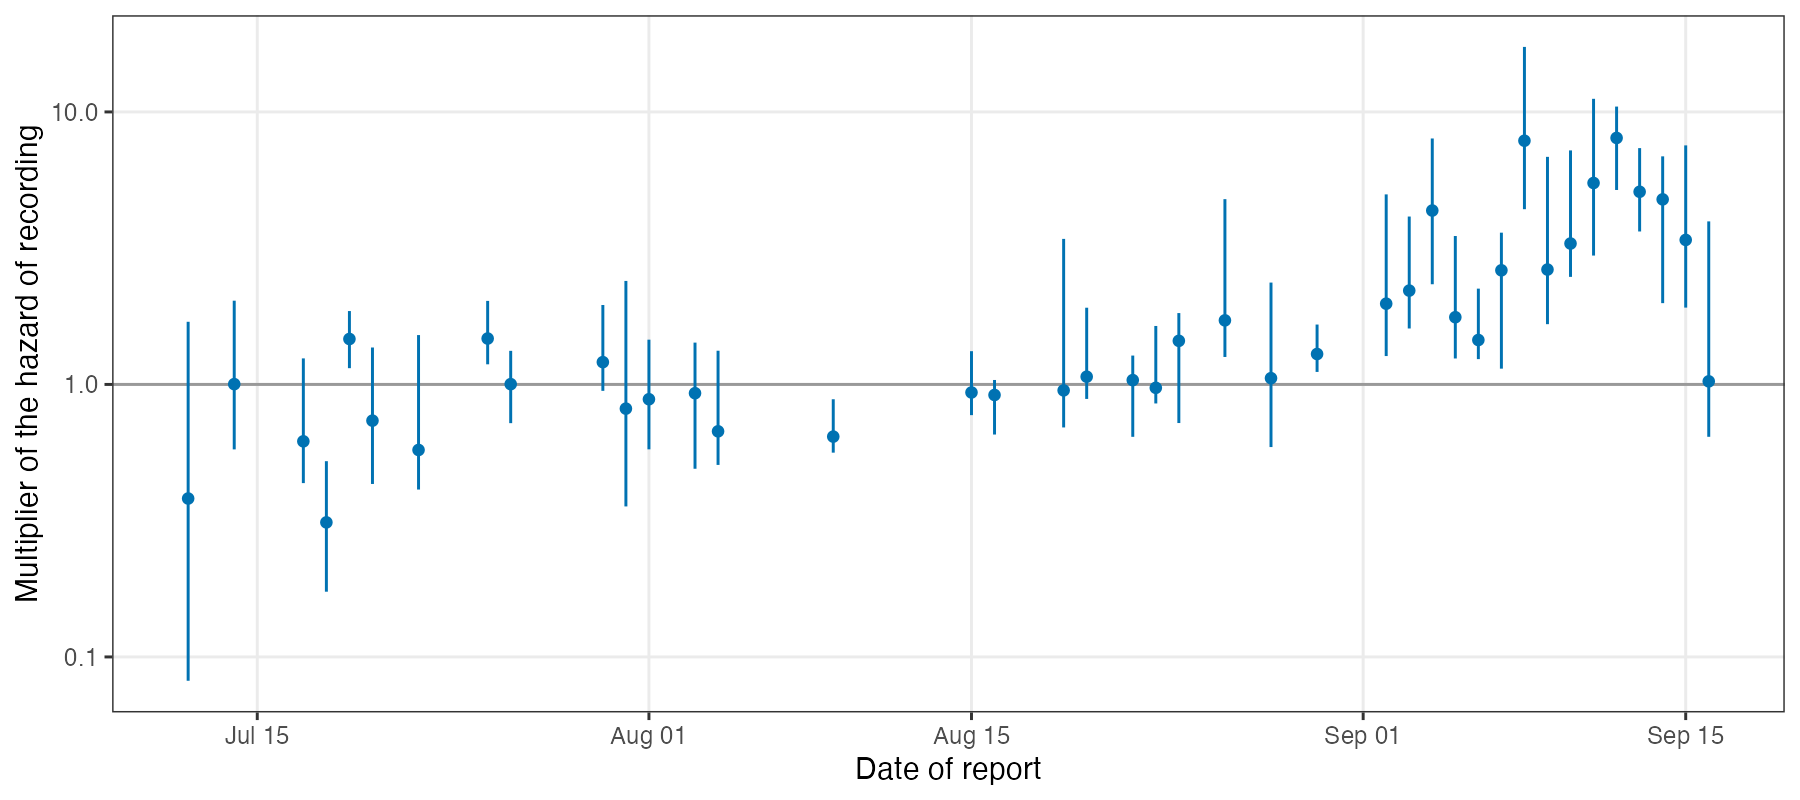
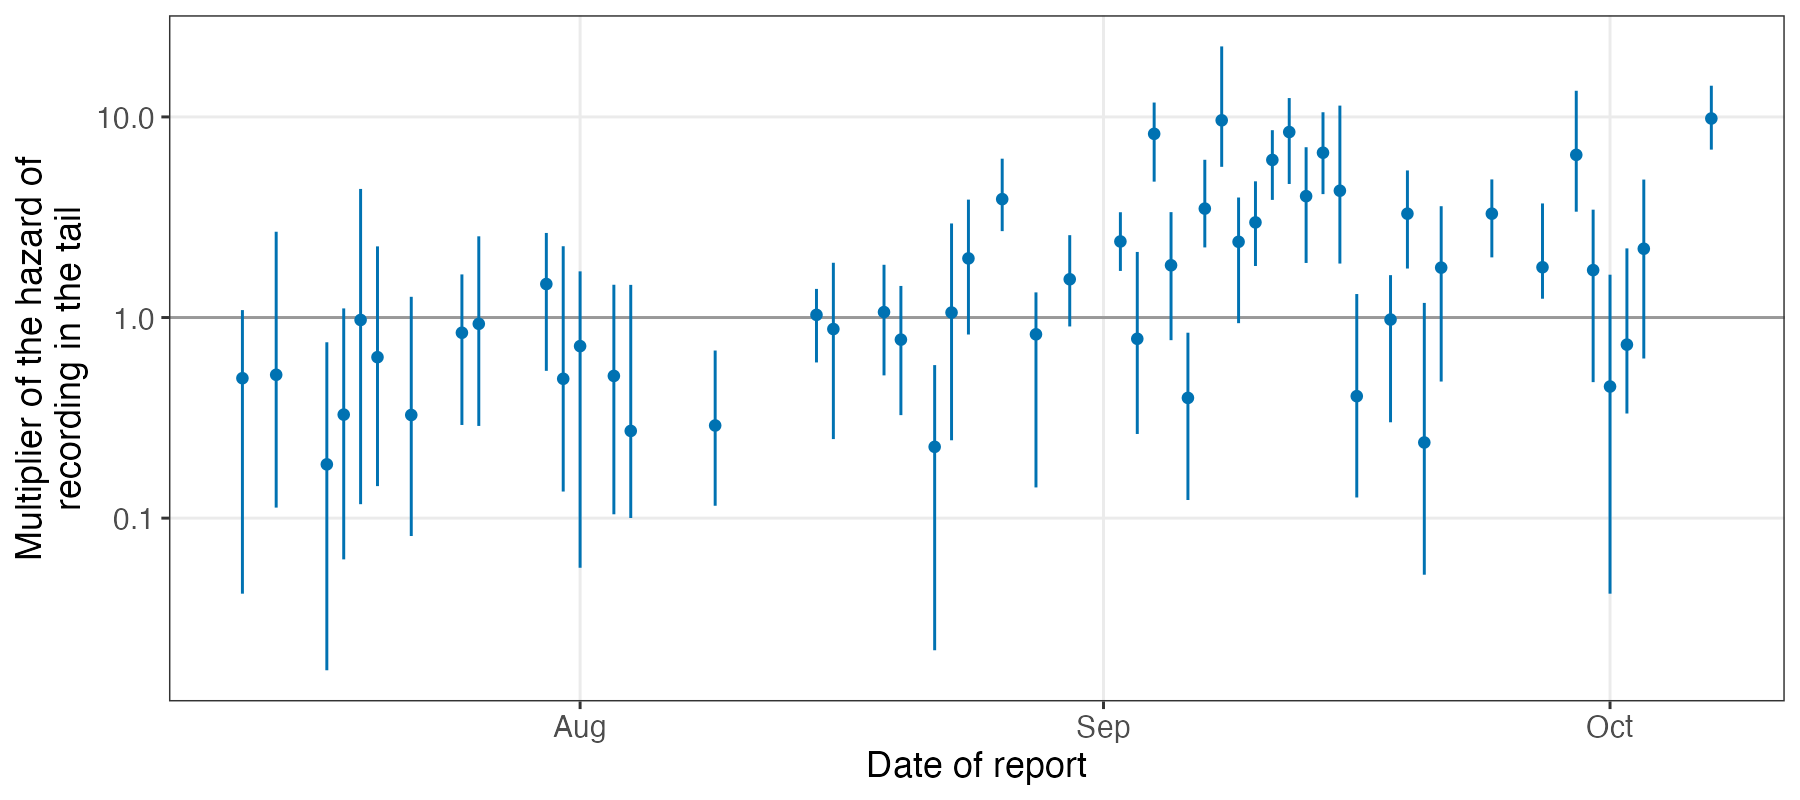
Death slides: results from the chosen model (f): fits to past sitreps, projections against actual deaths, parameter estimates at 7 October, effects of each report on the tail; G/H clash; U explained

diff --git a/docs/bvd_death_slides.tex b/docs/bvd_death_slides.tex
@@ -34,11 +34,13 @@
 \newcommand{\resultsinput}[1]{%
   \IfFileExists{../outputs/tables/#1}{\input{../outputs/tables/#1}}{\input{outputs/tables/#1}}}
 
-% The numbers on the slides are typed in by hand. The effects of each report
-% at 16 September come from runs/2026-10-14_20_12_recording_delay_0916
-% (batch 12, report effects on the whole recording delay) on the branch
-% experiment-results, second half of each chain, via scripts/plot_death_slides.R.
-% The data table and the counts of falls come from the reports to 7 October.
+% The numbers on the slides are typed in by hand. The fits, the projections,
+% the parameter estimates and the effects of each report are those of the
+% chosen model, option (f) (recording delay fixed to 31 July, effects of each
+% report on its tail alone), from runs/2026-10-15_23_13b_collect_report_effects
+% on the branch experiment-results, second half of each chain, via
+% scripts/plot_death_slides_f.R. The data table and the counts of falls come
+% from the reports to 7 October.
 
 \begin{document}
 \resultsinput{bvd_numbers.tex}
@@ -145,11 +147,10 @@ is about 79\% of its latest value, and the death count about 60\%.
 % % ---------------------------------------------------------------------------
 \begin{frame}{Fits to past sitreps: deaths}
 \centering
-\placeholderfig{bvd_deaths_fits_deaths.png}{0.78\textheight}
+\includegraphics[height=0.78\textheight]{bvd_deaths_fits_deaths.png}
 
 \smallskip
-{\small Panels: the date of each fit. Shading: 90\% interval of the projection.
-To be replaced by the fits of the final model.}
+{\small Panels: the date of each fit. Shading: 90\% interval of the projection.}
 \end{frame}
 
 ---------------------------------------------------------------------------
@@ -462,9 +463,9 @@ F^{\mathrm{mis}}(t)\sim\bin\bigl(F(t),\ f\bigr),
 \]
 are misdated: recorded on their day of death, $Z$ days later, with
 \[
-P(Z=z)=h_z\propto G(z)-G(z-1),\qquad z=1,2,\dots,
+P(Z=z)=h_z\propto H(z)-H(z-1),\qquad z=1,2,\dots,
 \]
-$G$ the distribution function of a gamma with mean 9.3 and sd 5.5 days (the
+$H$ the distribution function of a gamma with mean 9.3 and sd 5.5 days (the
 time from onset to death, from the review). $F^{\mathrm{mis}}(t,z)$: those
 who die $z$ days after onset (multinomial given $F^{\mathrm{mis}}(t)$).
 
@@ -530,7 +531,8 @@ $f$ of 0.40, 0.33, 0.26 and 0.17 for sds of 4.5, 5.5, 6.5 and 8 days.
 % ---------------------------------------------------------------------------
 \begin{frame}{Deaths recorded long after}
 With the time to death near nine days, a death first shown months after
-onset must be explained by $U$. A gamma with a mean of a few days makes such
+onset must be explained by a long delay $U$ from death to the death being
+recorded. A gamma with a mean of a few days makes such
 deaths all but impossible.
 
 \bigskip
@@ -570,8 +572,9 @@ Recording delay $(\mu^{d},\sigma^{d})$ & 14 days \\
 \bigskip
 \begin{itemize}
 \item $\cfr_t$ is indexed by onset day: a change is between cohorts of cases.
-\item Onset days first seen long after onset (to 18 July) cannot show how
-fast deaths were recorded, so they share one recording delay.
+\item The recording delay is the same for all onset days to 31 July: early
+onset days, many first seen long after onset, say little about how fast
+deaths were recorded.
 \end{itemize}
 \end{frame}
 
@@ -702,10 +705,11 @@ records.)
 
 % ---------------------------------------------------------------------------
 \begin{frame}{Effects of each report on recording}
-The hazard of a death being recorded on each day after report $t_{j-1}$, up
-to and including report $t_j$, is multiplied by
+On each day after report $t_{j-1}$, up to and including report $t_j$, the
+hazard of a death being recorded is multiplied by
 \[
-\psi^{d}_{w(j)}\,e^{\varepsilon_j},\qquad
+\underbrace{\psi^{d}_{w(j)}\,e^{\varepsilon_j}}_{\text{deaths in the tail}},\qquad
+\underbrace{\psi^{d}_{w(j)}}_{\text{other deaths}},\qquad
 \varepsilon_j\sim N(0,s^2),
 \]
 with $w(j)$ the day of the week of report $t_j$.
@@ -713,6 +717,8 @@ with $w(j)$ the day of the week of report $t_j$.
 \bigskip
 \begin{itemize}
 \item One effect per report, shared by all onset days.
+\item The effects act on the tail alone: a burst clears a backlog of old
+deaths without speeding up the recording of recent ones.
 \item Reports after the fit date: effects are drawn from $N(0,s^2)$ when
 projecting.
 \item Sampled in blocks with steps scaled by $s$, with $s$ by Gibbs, and a
@@ -721,47 +727,68 @@ joint rescaling of $(\varepsilon,s)$ to cross the funnel.
 \end{frame}
 
 % ---------------------------------------------------------------------------
-\begin{frame}{Effects of each report: the fit to 16 September}
+\begin{frame}{Effects of each report: the fit to 7 October}
 \centering
 \includegraphics[height=0.62\textheight]{bvd_deaths_report_effects.png}
 
 \smallskip
 \begin{minipage}{0.85\textwidth}
-\small Posterior medians and 90\% intervals. Multipliers of 2 to 8 on the
-reports of 2 to 15 September, the bursts; near 1 otherwise. $s=0.88$
-(0.73--1.10).
+\small $e^{\varepsilon_j}$: posterior medians and 90\% intervals. Multipliers
+of 2 to 10 on most reports from 26 August to 15 September, the bursts, and on
+29 September and 7 October; near 1 otherwise. $s=1.21$ (0.96--1.58).
 \end{minipage}
 \end{frame}
 
 % ---------------------------------------------------------------------------
 \begin{frame}{Fits to past sitreps: deaths}
 \centering
-\placeholderfig{bvd_deaths_fits_deaths.png}{0.78\textheight}
+\includegraphics[height=0.78\textheight]{bvd_deaths_fits_deaths.png}
 
 \smallskip
-{\small Panels: the date of each fit. Shading: 90\% interval of the projection.
-To be replaced by the fits of the final model.}
+{\small Panels: the date of each fit. Shading: 90\% interval of the projection.}
+\end{frame}
+
+% ---------------------------------------------------------------------------
+\begin{frame}{Fits to past sitreps: deaths in the latest 28 onset days}
+\centering
+\renewcommand{\arraystretch}{1.2}
+\begin{tabular}{lccc}
+\toprule
+Fit date & Shown then & Projected for 7 October & Actual on 7 October \\
+\midrule
+1 Aug & 348 & 545 (504--595) & 709 \\
+9 Aug & 380 & 556 (512--612) & 761 \\
+16 Aug & 403 & 574 (529--628) & 813 \\
+24 Aug & 441 & 630 (588--677) & 798 \\
+2 Sep & 495 & 666 (627--711) & 826 \\
+9 Sep & 489 & 716 (669--772) & 786 \\
+16 Sep & 513 & 722 (685--776) & 768 \\
+24 Sep & 457 & 619 (585--668) & 639 \\
+1 Oct & 379 & 472 (450--524) & 510 \\
+\bottomrule
+\end{tabular}
+
+\medskip
+{\small Deaths in the latest 28 onset days of each fit. Posterior medians and
+90\% intervals.}
 \end{frame}
 
 % ---------------------------------------------------------------------------
 \begin{frame}{Parameter estimates, fit to 7 October: cases}
-\placeholdertag
-
-\medskip
 \begin{center}
 \renewcommand{\arraystretch}{1.25}
 \begin{tabular}{lcc}
 \toprule
 Parameter & Median & 90\% interval \\
 \midrule
-$R_t$, latest onset day & -- & -- \\
-Number of changes in $R_t$ & -- & -- \\
-Overdispersion $\kappa$ & -- & -- \\
-Mean reporting delay, latest onset day (days) & -- & -- \\
-Sd of reporting delay, latest onset day (days) & -- & -- \\
-Number of changes in the reporting delay & -- & -- \\
-Wrong records per genuine case reported, $\eta$ & -- & -- \\
-Daily probability a wrong record is removed, $\rho$ & -- & -- \\
+$R_t$, latest onset day & 0.95 & 0.88 to 1.16 \\
+Number of changes in $R_t$ & 3 & 3 to 5 \\
+Overdispersion $\kappa$ & 26 & 19 to 38 \\
+Mean reporting delay, latest onset day (days) & 9.5 & 9.2 to 9.8 \\
+Sd of reporting delay, latest onset day (days) & 7.1 & 6.8 to 7.5 \\
+Number of changes in the reporting delay & 1 & 1 to 1 \\
+Wrong records per genuine case reported, $\eta$ & 0.033 & 0.027 to 0.039 \\
+Daily probability a wrong record is removed, $\rho$ & 0.050 & 0.041 to 0.060 \\
 \bottomrule
 \end{tabular}
 \end{center}
@@ -769,24 +796,21 @@ Daily probability a wrong record is removed, $\rho$ & -- & -- \\
 
 % ---------------------------------------------------------------------------
 \begin{frame}{Parameter estimates, fit to 7 October: deaths}
-\placeholdertag
-
-\medskip
 \begin{center}
 \renewcommand{\arraystretch}{1.25}
 \begin{tabular}{lcc}
 \toprule
 Parameter & Median & 90\% interval \\
 \midrule
-$\cfr_t$, latest onset day & -- & -- \\
-Number of changes in $\cfr_t$ & -- & -- \\
-Share of fatal cases whose death brings the report, $\tau$ & -- & -- \\
-Share of fatal cases misdated, $f$ & -- & -- \\
-Mean delay from death to recording, latest onset day (days) & -- & -- \\
-Share of deaths recorded in the tail, $\omega^{d}$ & -- & -- \\
-Mean of the tail, $m^{d}$ (days) & -- & -- \\
-Sd of the effects of each report, $s$ & -- & -- \\
-Probability a wrong record is shown as dead, $\delta$ & -- & -- \\
+$\cfr_t$, latest onset day & 0.47 & 0.41 to 0.48 \\
+Number of changes in $\cfr_t$ & 0 & 0 to 1 \\
+Share of fatal cases whose death brings the report, $\tau$ & 0.94 & 0.82 to 1.00 \\
+Share of fatal cases misdated, $f$ & 0.39 & 0.33 to 0.42 \\
+Mean delay from death to recording, latest onset day (days) & 3.9 & 3.2 to 5.6 \\
+Share of deaths recorded in the tail, $\omega^{d}$ & 0.33 & 0.30 to 0.36 \\
+Mean of the tail, $m^{d}$ (days) & 56 & 44 to 75 \\
+Sd of the effects of each report, $s$ & 1.21 & 0.96 to 1.58 \\
+Probability a wrong record is shown as dead, $\delta$ & 0.43 & 0.34 to 0.54 \\
 \bottomrule
 \end{tabular}
 \end{center}
